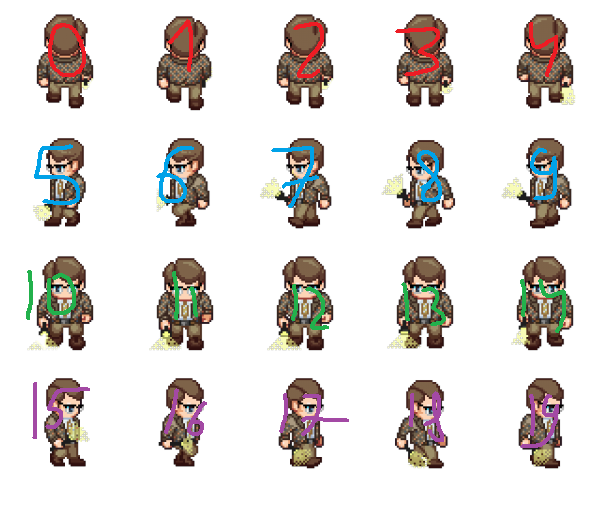
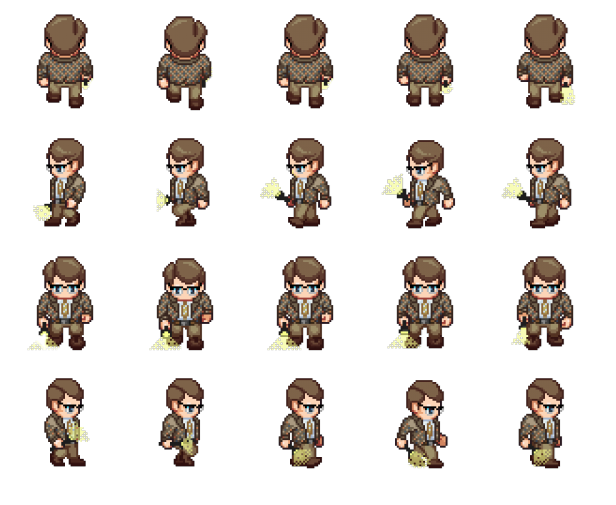
Added more textures and some small fixes.

diff --git a/src/client/scenes/Game.js b/src/client/scenes/Game.js
@@ -42,7 +42,10 @@ export class Game extends Phaser.Scene {
         socket.on('spawn', this.handleSpawn);
         socket.on('placeBomb', this.handlePlaceBomb);
         socket.on('newUser', this.handleNewUser);
+        socket.on('explode', this.handleExplode);
+        socket.on('move', this.handleMove);
     }
+
 
     update() {
         //this.graphics.clear();
@@ -56,11 +59,9 @@ export class Game extends Phaser.Scene {
             if (keys.get('Space').isDown) this.placeBomb();
         }
 
-        for (const enemyUser of users.values()) {
-            if (user !== enemyUser)
-                enemyUser.draw(this.graphics, true);
-            else
-                enemyUser.draw(this.graphics, false);
+        for (const u of users.values()) {
+            if (user !== u)
+                u.drawOtherUser(this.graphics, true);
         }
         if (endGame) this.endGame(result);
     }
@@ -69,32 +70,50 @@ export class Game extends Phaser.Scene {
         if(user2 != null) return;
 
         console.log("spawn");
+        console.log(data);
+
         gameMap.map = data.map;
+        this.drawMap();
+
+        let otherUserSprite = this.add.sprite(user.x * 40 + 20, user.y * 40 + 20, 'player0', 10).setScale(0.33);
         let u2 = new Map(JSON.parse(data.users));
         for (let [key, value] of u2.entries()) {
-            users.set(key, new User(value.username, value.x, value.y, null));
+            users.set(key, new User(value.username, value.x, value.y, null, otherUserSprite));
         }
 
         user = users.get(socket.id);
 
-        let userSprite = this.add.sprite(user.x * 40 + 20, user.y * 40 + 20, 'player1');
+        let userSprite = this.add.sprite(user.x * 40 + 20, user.y * 40 + 20, 'player0', 10).setScale(0.33);
         user2 = new User2("?", userSprite, "?");
 
         spawned = true;
 
-        gameMap.draw();
+    }
+
+    drawMap() {
+        for (let i = 0; i < gameMap.map.length; i++) {
+            for (let j = 0; j < gameMap.map[0].length; j++) {
+                if (gameMap.map[i][j] === FieldEnum.EMPTY) {
+                    this.add.sprite(j * 40 + 20, i * 40 + 20, 'grass').setScale(0.5);
+                }else if (gameMap.map[i][j] === FieldEnum.STONE) {
+                    this.add.sprite(j * 40 + 20, i * 40 + 20, 'stone');
+                }else if (gameMap.map[i][j] === FieldEnum.BARRICADE) {
+                    this.add.sprite(j * 40 + 20, i * 40 + 20, 'ice').setScale(0.5);
+                } else {
+                    this.graphics.fillStyle(0x000000, 1.0);
+                    this.graphics.fillRect(j * 40, i * 40, 40, 40);
+                }
+            }
+        }
     }
 
     placeBomb() {
         socket.emit('placeBomb');
-
-        this.add.sprite(user.x * 40 + 20, user.y * 40 + 20, 'bomb');
     }
 
     handlePlaceBomb = (pos) => {
-        gameMap.placeBomb(pos.x, pos.y);
-
-        this.add.sprite(pos.x * 40 + 20, pos.y * 40 + 20, 'bomb');
+        if(gameMap.placeBomb(pos.x, pos.y, this))
+            this.add.sprite(pos.x * 40 + 20, pos.y * 40 + 20, 'bomb').setScale(0.33);
     }
 
     handleNewUser = (data) => {
@@ -109,8 +128,6 @@ export class Game extends Phaser.Scene {
             user.transit(x, y);
             socket.emit('move', new Point(x, y));
 
-
-
             user2.transit(x, y, this.tweens);
         }
     }
@@ -119,23 +136,28 @@ export class Game extends Phaser.Scene {
         this.scene.start("EndMenu", {result: result});
     }
 
-}
+    handleExplode = (pos)=> {
+        let detonated = gameMap.detonate(pos.x, pos.y, this);
 
-socket.on('move', function (data) {
-    if (!spawned) return;
-    if (data.id === socket.id) {
-        console.warn("Rollback detected!");
-        user.inTransit = false;
-        user.transitionX = 0;
-        user.transitionY = 0;
+        for(let i = 0; i < detonated.length; i++) {
+            this.add.sprite(detonated[i].x * 40 + 20, detonated[i].y * 40 + 20, 'explode').setScale(0.33);
+        }
     }
 
-    users.get(data.id).transit(data.pos.x, data.pos.y);
-});
+    handleMove = (data) => {
+        if (!spawned) return;
+        if (data.id === socket.id) {
+            console.warn("Rollback detected!");
+            user.inTransit = false;
+            user.transitionX = 0;
+            user.transitionY = 0;
+        }
 
-socket.on('explode', function (pos) {
-    gameMap.detonate(pos.x, pos.y);
-});
+        users.get(data.id).transit(data.pos.x, data.pos.y);
+        users.get(data.id).hero.x = data.pos.x * 40 + 20;
+        users.get(data.id).hero.y = data.pos.y * 40 + 20;
+    }
+}
 
 socket.on('disconnectUser', function (id) {
     if (!spawned) return;
@@ -145,5 +167,6 @@ socket.on('disconnectUser', function (id) {
 socket.on('endGame', function (data) {
     endGame = true;
     result = data;
+    spawned = false;
     socket.disconnect();
 });

diff --git a/src/api/GameMap.js b/src/api/GameMap.js
@@ -58,24 +58,44 @@ export class GameMap {
         }
     }
 
-    detonate(x, y, r = 5) {
-        this.explodeField(x, y);
+    detonate(x, y, scene, r = 5) {
+        let detonatedFields = [];
+        this.explodeField(x, y, scene);
         for (let i = 1; i < r + 1; i++) {
-            if (this.canExplode(x + i, y)) break;
+            if(this.canExplode2(x + i, y))
+                detonatedFields.push(new Point(x + i, y));
+
+            if (this.canExplode(x + i, y,))
+                break;
         }
         for (let i = 1; i < r + 1; i++) {
-            if (this.canExplode(x - i, y)) break;
+            if(this.canExplode2(x - i, y))
+                detonatedFields.push(new Point(x - i, y));
+
+            if (this.canExplode(x - i, y))
+                break;
         }
         for (let i = 1; i < r + 1; i++) {
-            if (this.canExplode(x, y - i)) break;
+            if(this.canExplode2(x, y - i))
+                detonatedFields.push(new Point(x, y - i));
+
+            if (this.canExplode(x, y - i))
+                break;
         }
         for (let i = 1; i < r + 1; i++) {
-            if (this.canExplode(x, y + i)) break;
+            if(this.canExplode2(x, y + i))
+                detonatedFields.push(new Point(x, y + i));
+
+            if (this.canExplode(x, y + i))
+                break;
         }
+
+        return detonatedFields;
     }
 
-    explodeField(x, y) {
+    explodeField(x, y, scene) {
         this.map[y][x] = FieldEnum.EXPLOSION;
+
         setTimeout(() => {
             this.clearExplosion(x, y);
         }, 200);
@@ -89,7 +109,18 @@ export class GameMap {
         return this.map[y][x] === FieldEnum.EXPLOSION;
     }
 
-    canExplode(x, y) {
+    canExplode2(x, y) {
+        if (this.map[y][x] === FieldEnum.BARRICADE ||
+            this.map[y][x] === FieldEnum.BOMB ||
+            this.map[y][x] === FieldEnum.EMPTY) {
+            return true;
+        }
+
+        return false;
+    }
+
+    // 1 = detonate, 0 = no, 3 = pass
+    canExplode(x, y, detonatedFields) {
         if (this.map[y][x] === FieldEnum.BOMB) {
             this.detonate(x, y);
             return true;
@@ -108,36 +139,14 @@ export class GameMap {
         this.map[y][x] = FieldEnum.EMPTY;
     }
 
-    placeBomb(x, y) {
+    placeBomb(x, y, scene) {
         if (!this.outOfBonds(x, y) && this.map[y][x] !== FieldEnum.BOMB) {
             this.map[y][x] = FieldEnum.BOMB;
+
+            return true;
         }
 
+        return false;
     }
 
-    // Called when the player spawns
-    draw() {
-
-        var graphics = this.game.graphics;
-        graphics.clear;
-
-        for (let i = 0; i < this.map.length; i++) {
-            for (let j = 0; j < this.map[0].length; j++) {
-                if (this.map[i][j] === FieldEnum.EMPTY) {
-                    graphics.fillStyle(0x009933, 1.0);
-                    graphics.fillRect(j * 40, i * 40, 40, 40);
-                }else if (this.map[i][j] === FieldEnum.STONE) {
-
-                    this.game.add.sprite(j * 40 + 20, i * 40 + 20, 'stone')
-
-                }else if (this.map[i][j] === FieldEnum.BARRICADE) {
-                    graphics.fillStyle(0x802b00, 1.0);
-                    graphics.fillRect(j * 40, i * 40, 40, 40);
-                } else {
-                    graphics.fillStyle(0x000000, 1.0);
-                    graphics.fillRect(j * 40, i * 40, 40, 40);
-                }
-            }
-        }
-    }
 }

diff --git a/src/api/User.js b/src/api/User.js
@@ -2,7 +2,7 @@ import {gameConfig} from "../../config/gameConfig.js";
 
 export class User {
 
-    constructor(username, x, y, rank) {
+    constructor(username, x, y, rank, hero) {
         this.username = username;
         this.rank = rank;
         this.x = x;
@@ -12,6 +12,8 @@ export class User {
         this.alive = true;
         this.transitionX = 0;
         this.transitionY = 0;
+
+        this.hero = hero;
     }
 
     transit(x, y) {
@@ -33,11 +35,8 @@ export class User {
         }, 100);
     }
 
-    draw(graphics, enemy) {
-        if (enemy)
-            graphics.fillStyle(0xff6600, 1.0);
-        else
-            graphics.fillStyle(0x0066ff, 1.0);
+    drawOtherUser(graphics) {
+        graphics.fillStyle(0xff6600, 1.0);
         graphics.fillRect(this.x * this.size + this.transitionX, this.y * this.size + this.transitionY, 40, 40);
     }
 

diff --git a/src/client/scenes/Load.js b/src/client/scenes/Load.js
@@ -21,7 +21,17 @@ export class Load extends Phaser.Scene{
         this.load.image('refreshButton', 'assets/refresh_button.png');
 
         this.load.image('stone', 'assets/stone01.png');
-        this.load.image('bomb', 'assets/bomb.png')
+        this.load.image('grass', 'assets/grass01.png');
+        this.load.image('ice', 'assets/ice.png');
+        this.load.spritesheet('bomb', 'assets/bomb.png', {
+            frameWidth: 80,
+            frameHeight: 80
+        });
+
+        this.load.spritesheet('explode', 'assets/explode.png', {
+            frameWidth: 80,
+            frameHeight: 80
+        });
 
         this.load.image('player1', 'assets/player1.png');
         this.load.spritesheet('player0', 'assets/player0.png', {

diff --git a/src/api/User2.js b/src/api/User2.js
@@ -58,7 +58,7 @@ export class User2 {
                 tIndex = Math.min(Math.floor(step / (totalSteps / 4)), 3); // Limit tIndex to 3 (max of 4 textures)
 
                 this.hero.setTexture("player0", textureIndex + tIndex).setScale(0.33);
-                console.log(textureIndex + tIndex);
+                //console.log(textureIndex + tIndex);
             },
             onComplete: () => {
                 this.inTransit = false;
